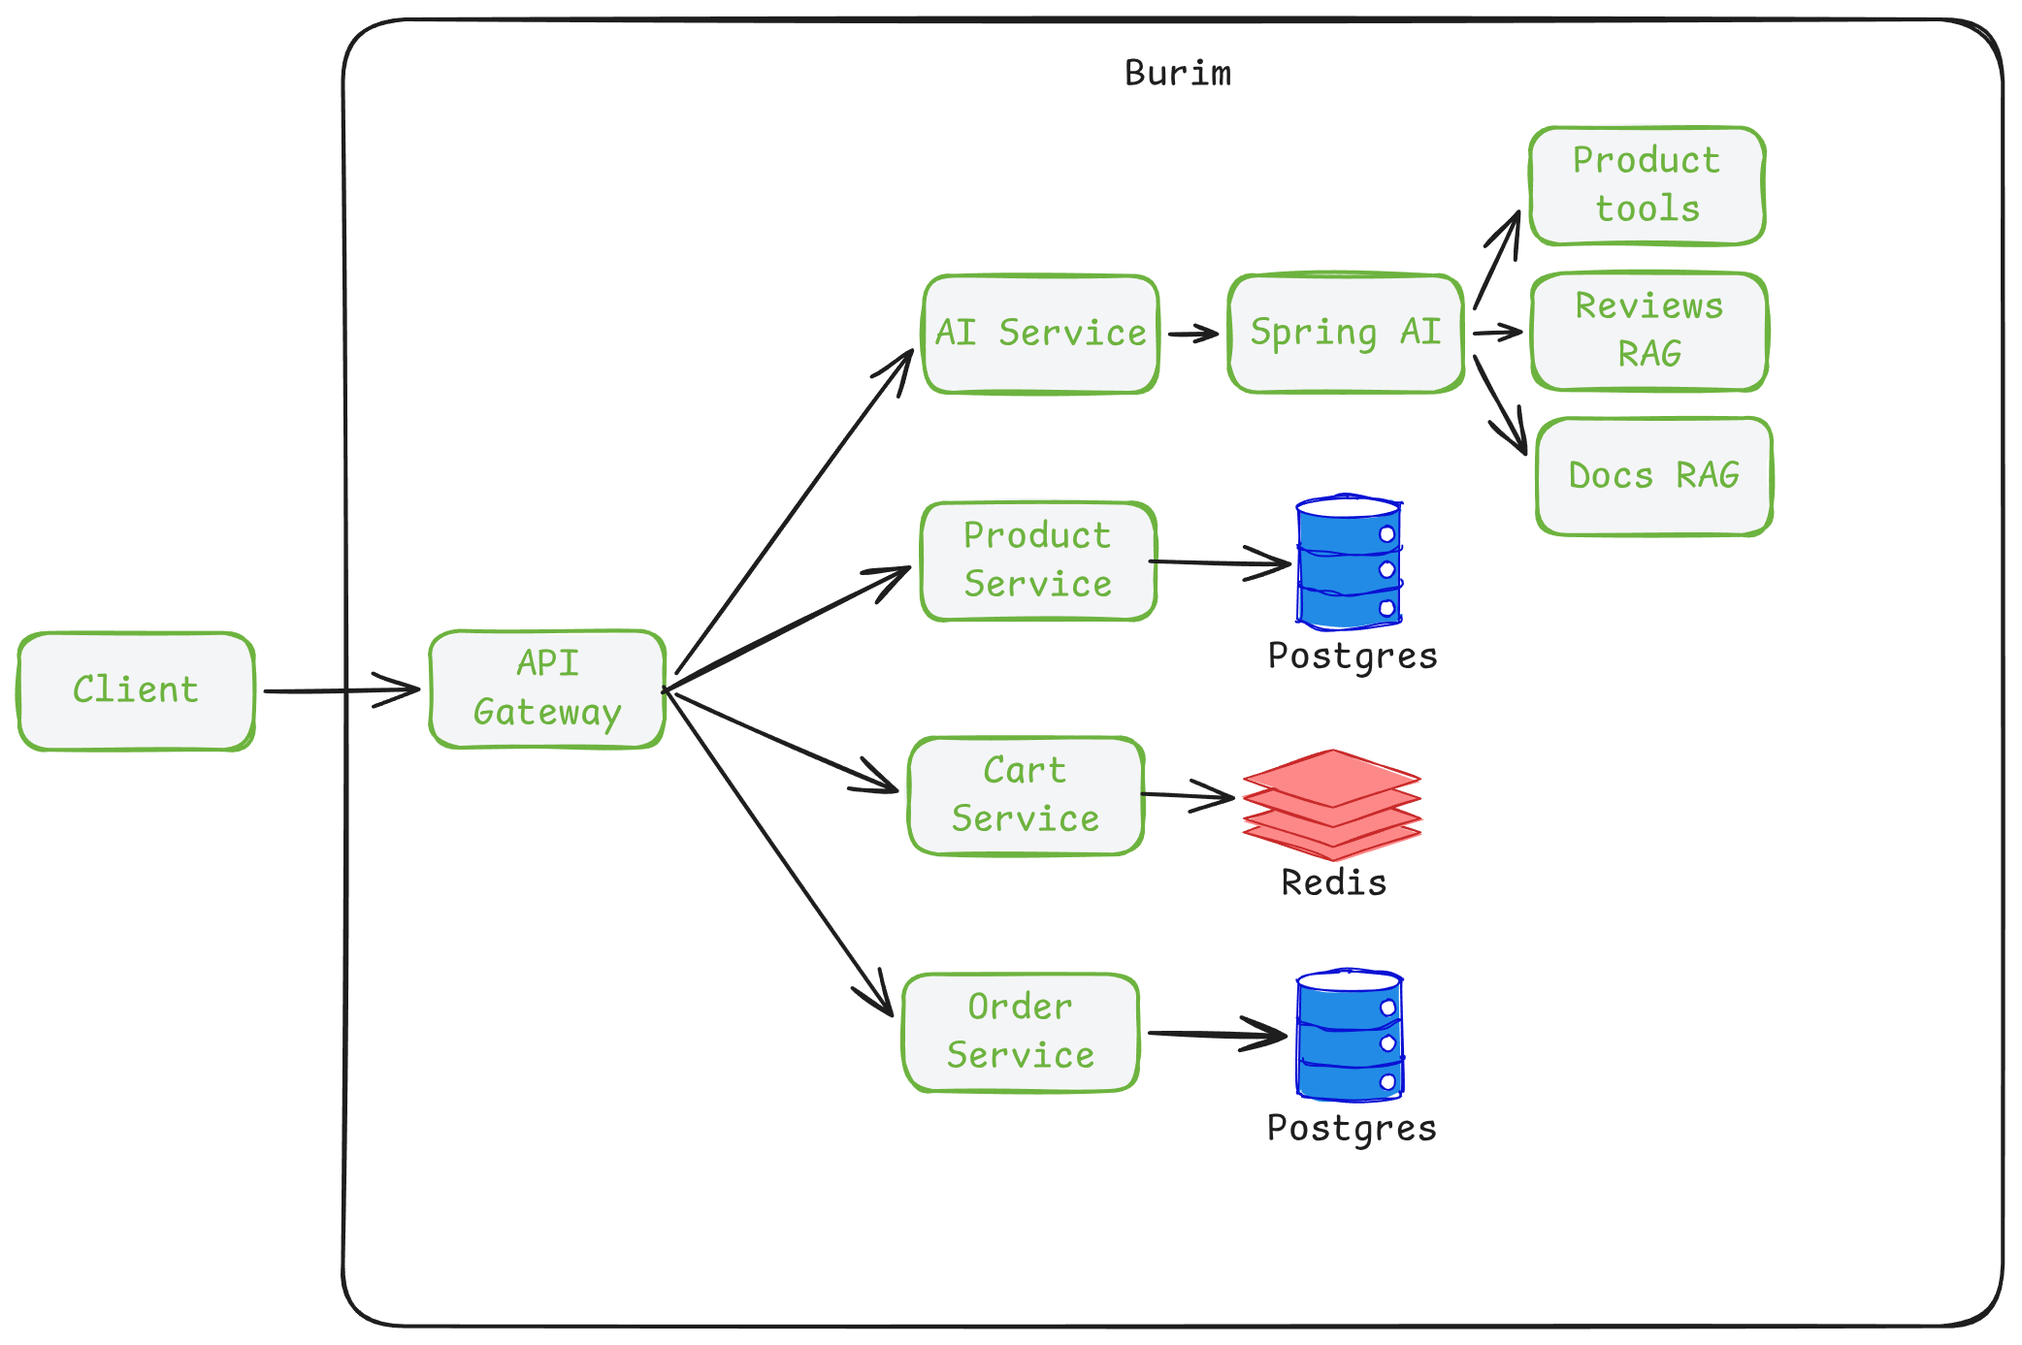
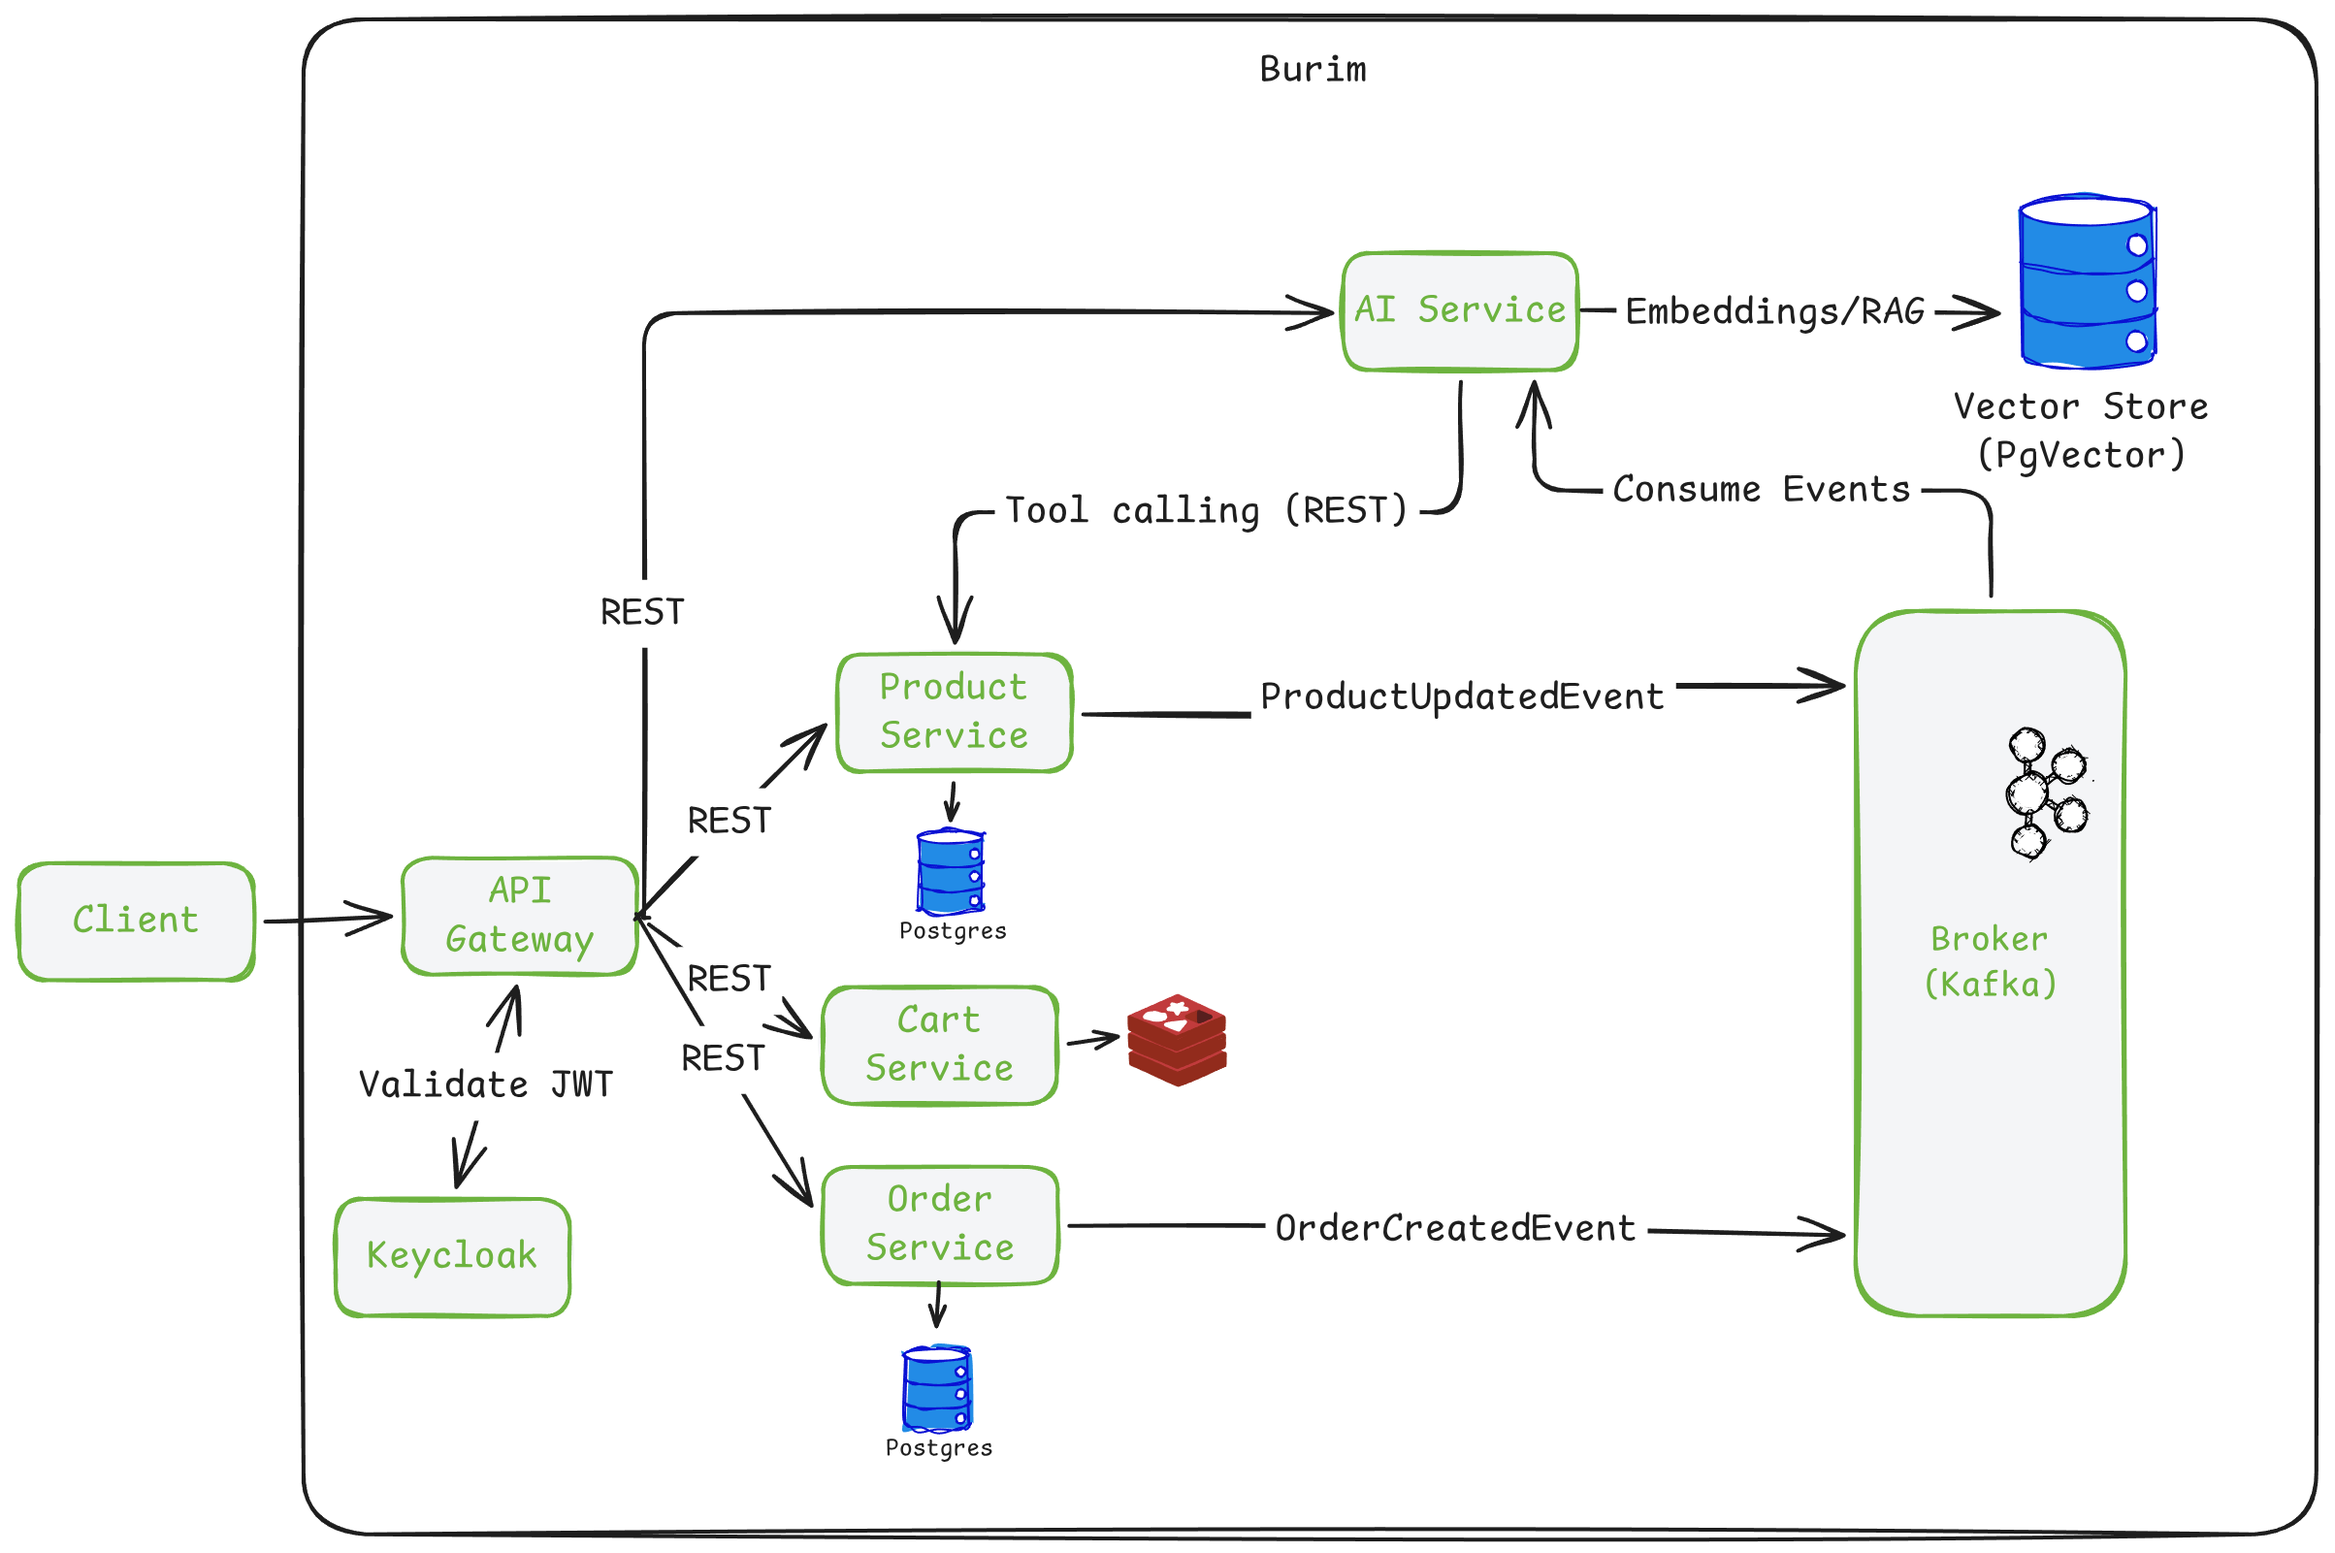
docs: update README with project overview, architecture, and AI integration details

diff --git a/README.md b/README.md
@@ -1,43 +1,47 @@
-## 🚧 Work in progress
+# Burim
 
-## Use Case Diagram
-
-Burim supports two main user roles: customers and sellers. The diagram shows their core interactions with the platform and the available AI-assisted features.
-
-![Burim usecase diagram](docs/architecture/usecase.png)
+Burim is a microservice-based e-commerce platform with integrated AI features for search, recommendations, and merchant analytics.
 
 ## Architecture
 
-The diagram below illustrates the core microservices, data storage layers, and AI components powering the platform.
+The system is designed as a set of independent microservices with database-per-service isolation:
 
-![Burim Architecture Diagram](docs/architecture/architecture.png)
+- **API Gateway:** Entry point for clients, routing, and token validation.
+- **Product Service:** Manages product catalog, categories, inventory, and reviews.
+- **Cart Service:** Shopping cart management.
+- **Order Service:** Order processing and status tracking.
+- **AI Service:** Handles chat queries, Tool Calling, and RAG vector indexing.
+- **Keycloak:** OAuth2 / OpenID Connect authorization server.
+
+### Inter-Service Communication
+
+- **Synchronous (REST):** Used for real-time user requests (browsing products, cart operations, direct AI chat).
+- **Asynchronous (Apache Kafka):** Used as an event bus (`ProductUpdatedEvent`, `OrderCreatedEvent`) for background processing and updating the AI vector store without blocking main API responses.
+
+![Burim Architecture](docs/architecture/architecture.png)
+
+## AI Integration
+
+- **Tool Calling (REST):** AI Service queries Product Service directly for live stock and pricing data.
+- **RAG (Retrieval-Augmented Generation):** Semantic search using product descriptions, reviews, and documentation.
+- **Event-Driven Indexing:** Product and order changes are consumed from Kafka topics and written to the vector store (`PGVector`).
 
 ## Tech Stack
 
-### Backend
-- Java 21
-- Spring Boot
-- Spring Cloud
+### Implemented
+- **Language:** Java 21
+- **Framework:** Spring Boot 3
+- **Data:** Spring Data JPA, Hibernate, Flyway
+- **Database:** PostgreSQL
+- **Environment:** Docker, Docker Compose
+- **Build Tool:** Maven
 
-### Data & Messaging
-- PostgreSQL
-- Redis
-- Apache Kafka
+### Planned
+- **Gateway & Security:** Spring Cloud Gateway, Keycloak
+- **Messaging & Cache:** Apache Kafka, Redis
+- **AI Engine:** Spring AI, PGVector
+- **Observability:** Prometheus, Grafana, Zipkin
 
-### Security
-- Keycloak
+## Use Cases
 
-### AI
-- Spring AI
-- RAG
-- Function Calling
-
-### Observability
-- Actuator
-- Prometheus
-- Grafana
-- Zipkin
-- Resilience4j
-
-### Infrastructure
-- Docker
+![Burim Use Case Diagram](docs/architecture/usecase.png)
